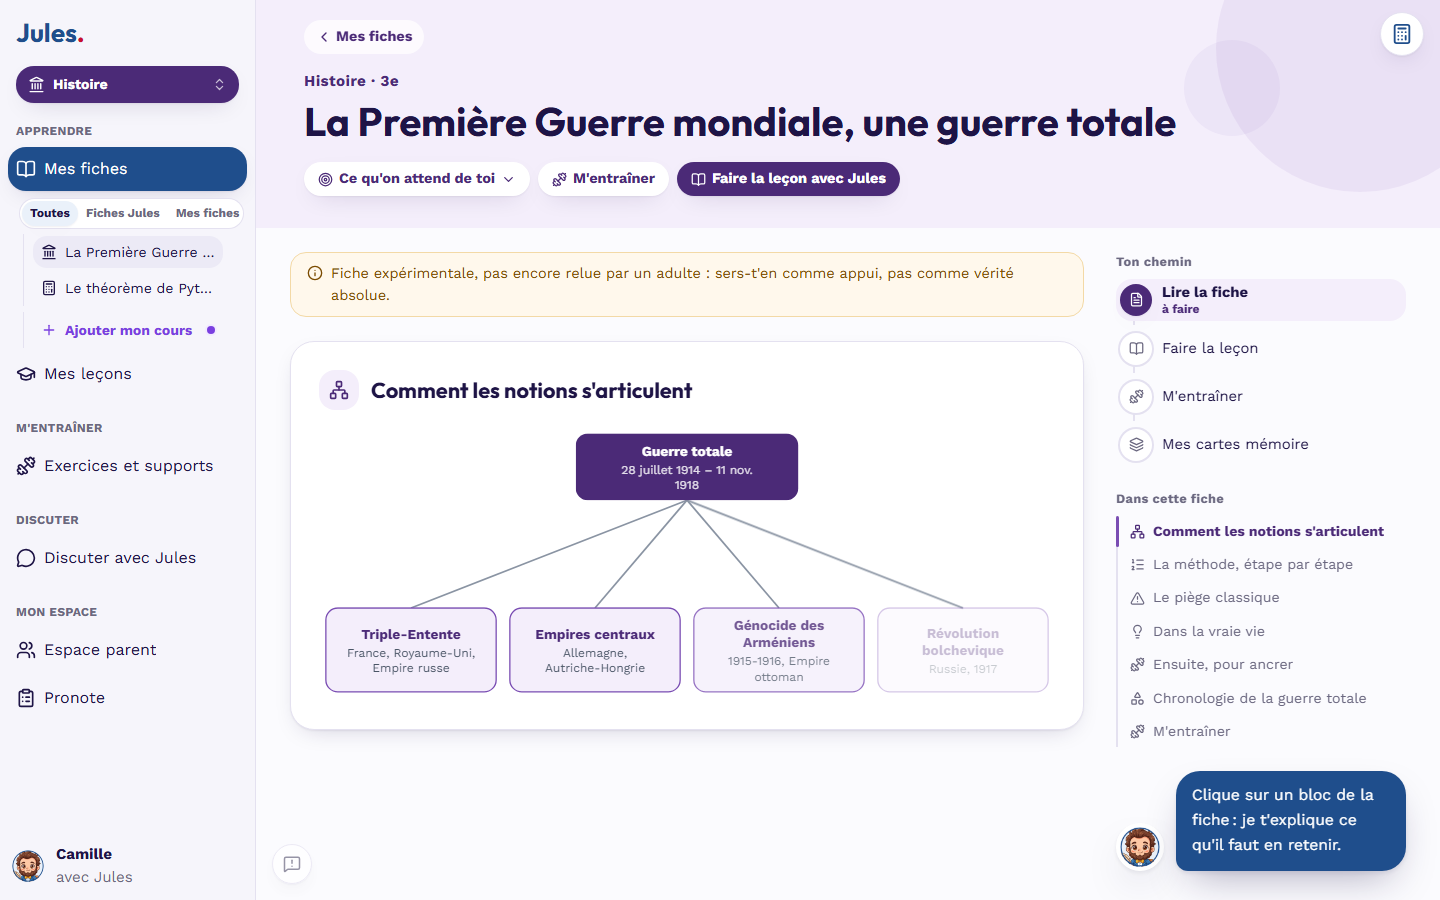
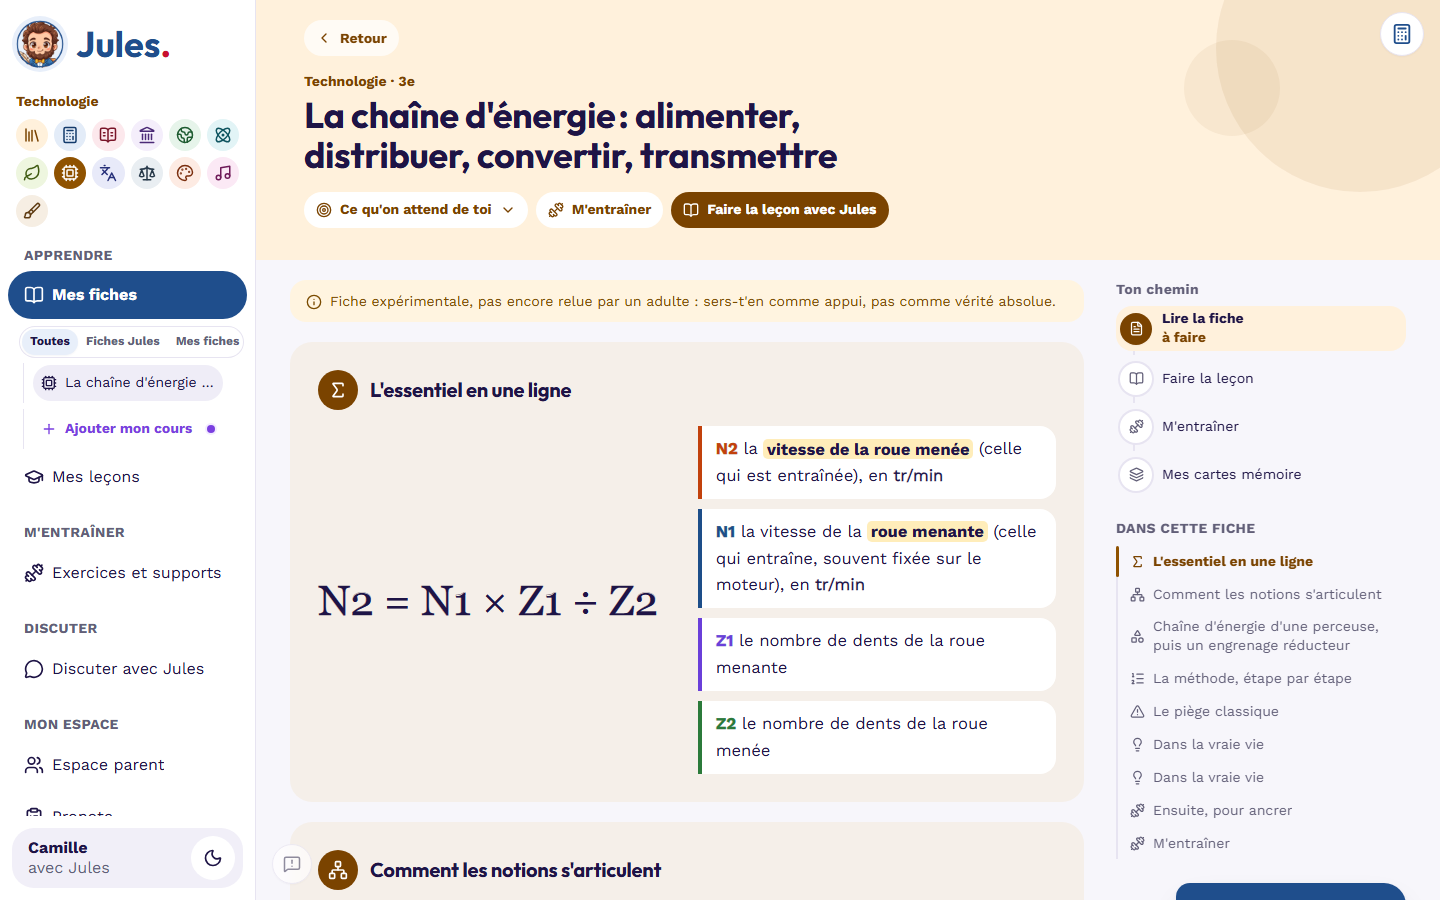
README : captures de l'interface actuelle, cartes des notions en couleurs (#82)
* README : captures de l'interface actuelle (Mes fiches en couleurs, cartes des notions par matière, carte agrandie, fiche, figure interactive, leçons, téléphone clair et sombre)

* README : planche de six schémas des fiches (circuits, classification, atome, digestion, deux dés, Gantt)

diff --git a/README.md b/README.md
@@ -18,10 +18,41 @@ Le projet est ouvert à tous : parents, enseignants, orthophonistes, étudiants,
 
 ## Où va Jules
 
-<p align="center"><img src="docs/interface-lecon.png" alt="La nouvelle interface : une leçon sur le théorème de Pythagore au centre, le menu de l'élève à gauche (fiches, leçons, exercices, discussion, espace parent), Jules à droite qui propose de réexpliquer sans donner la réponse" width="820"></p>
-<p align="center"><em>Une leçon avec Jules à côté. Profil d'exemple, moteur Démo.</em></p>
-<p align="center"><img src="docs/interface-fiche.png" alt="Une fiche visuelle d'histoire, la Première Guerre mondiale : carte des notions, chemin de l'élève (lire la fiche, faire la leçon, s'entraîner), sommaire de la fiche et bulle de Jules" width="820"></p>
-<p align="center"><em>Une fiche visuelle, affichée sans appel à l'IA. Captures de la nouvelle interface, en cours d'intégration (branche <code>ui/refonte-2026-09-27</code>) ; <code>main</code> sert encore les pages précédentes.</em></p>
+<p align="center"><img src="docs/interface-fiches.png" alt="La page « Mes fiches » : les douze matières de 3e en cartes colorées (mathématiques, français, histoire, géographie, physique-chimie, SVT, technologie, anglais, EMC, arts plastiques, éducation musicale, histoire des arts), chacune avec son nombre de fiches et de chapitres" width="820"></p>
+<p align="center"><em>« Mes fiches » : une couleur par matière, reprise sur toutes ses pages.</em></p>
+
+<p align="center"><img src="docs/interface-cartes.png" alt="Six cartes des notions, une par matière : la Seconde Guerre mondiale en violet, le calcul avec les fractions en bleu, le circuit électrique en turquoise, la puberté en vert, la chaîne d'énergie en orange, l'aménagement du territoire en mode sombre" width="820"></p>
+<p align="center"><em>Chaque fiche a sa carte des notions : l'idée centrale et ce qui en découle, en un coup d'œil.</em></p>
+
+<p align="center"><img src="docs/interface-schemas.png" alt="Six schémas de fiches : les circuits en série et en dérivation, les 18 premiers éléments de la classification, un atome de lithium et le zoom sur son noyau, la digestion par les enzymes, le tableau à double entrée de deux dés, un diagramme de Gantt de projet technique" width="820"></p>
+<p align="center"><em>Les schémas des fiches (306 en 3e) : dessinés en SVG, vérifiés par le code, agrandissables.</em></p>
+
+<p align="center"><img src="docs/interface-carte-agrandie.png" alt="La carte d'une fiche de physique-chimie ouverte en grand au-dessus de la page : un circuit électrique, relié à « en série », « en dérivation », « loi d'Ohm » et « mesures »" width="820"></p>
+<p align="center"><em>« Agrandir la carte » l'ouvre en grand, au-dessus de la fiche.</em></p>
+
+<table>
+<tr>
+<td width="50%"><img src="docs/interface-fiche.png" alt="Une fiche de technologie, la chaîne d'énergie : la formule N2 = N1 × Z1 ÷ Z2 avec chaque lettre expliquée, le chemin de l'élève (lire la fiche, faire la leçon, s'entraîner, cartes mémoire) et le sommaire de la fiche"></td>
+<td width="50%"><img src="docs/interface-graphe.png" alt="Une fiche de mathématiques sur la fonction linéaire : la formule f(x) = a × x, puis une figure où l'élève déplace des curseurs a et b et voit la droite bouger"></td>
+</tr>
+<tr>
+<td align="center"><em>Une fiche : la formule, chaque lettre expliquée, le chemin de l'élève à droite.</em></td>
+<td align="center"><em>Une figure à manipuler : l'élève bouge a et b, la droite suit.</em></td>
+</tr>
+<tr>
+<td width="50%"><img src="docs/interface-lecons.png" alt="La liste des leçons de mathématiques : des cartes avec le chapitre, le titre, la durée et l'état (à faire), et les matières en pastilles de couleur"></td>
+<td width="50%"><img src="docs/interface-lecon.png" alt="Une leçon sur les fonctions linéaires et affines : objectifs, blocs « À retenir » au centre, Jules à droite qui propose de réexpliquer sans donner la réponse"></td>
+</tr>
+<tr>
+<td align="center"><em>Les leçons d'une matière, avec leur durée.</em></td>
+<td align="center"><em>Une leçon, Jules à côté.</em></td>
+</tr>
+</table>
+
+<p align="center"><img src="docs/interface-mobile.png" alt="Quatre écrans de téléphone : la page Mes fiches en clair, les leçons de physique-chimie, une fiche sur les formes d'énergie en mode sombre avec sa carte réduite, et Mes fiches en mode sombre" width="820"></p>
+<p align="center"><em>Sur téléphone, en clair et en sombre.</em></p>
+
+<p align="center"><em>Captures de la nouvelle interface React, profil d'exemple et moteur Démo, encore en cours d'intégration (<a href="https://github.com/alexxb2mg-svg/jules/pull/76">PR #76</a>) : <code>main</code> sert encore les pages précédentes.</em></p>
 
 Quatre idées guident la suite :
 
